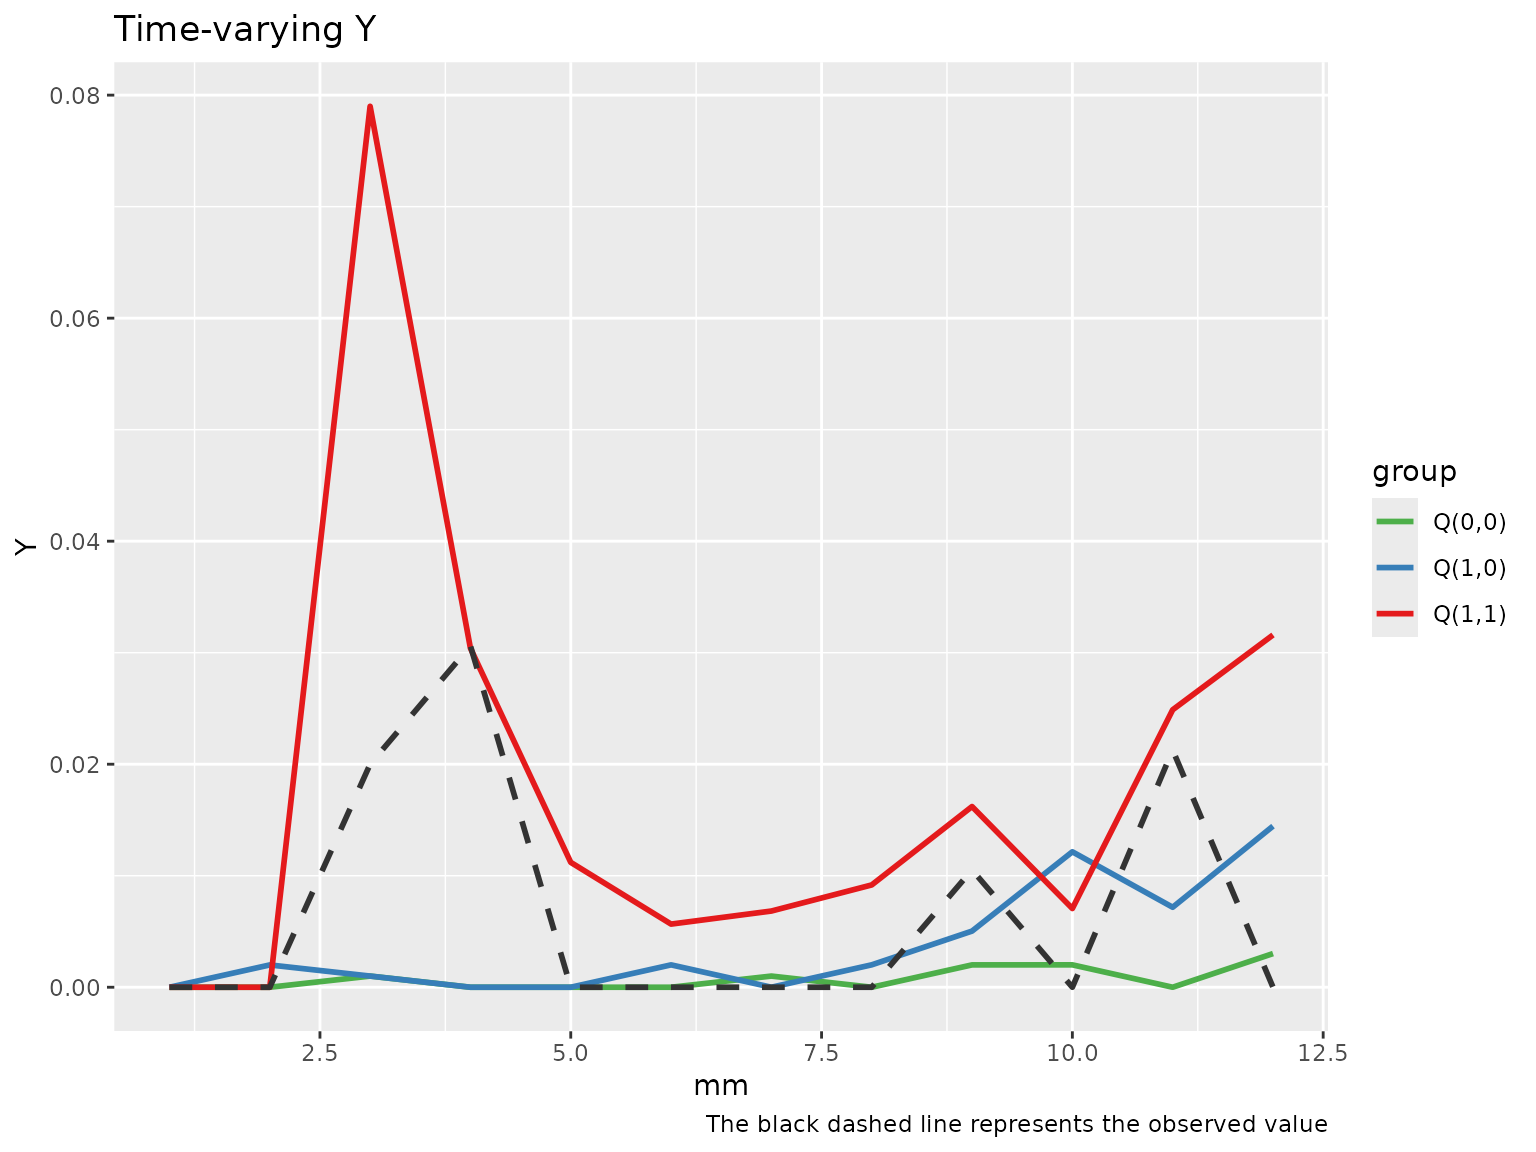
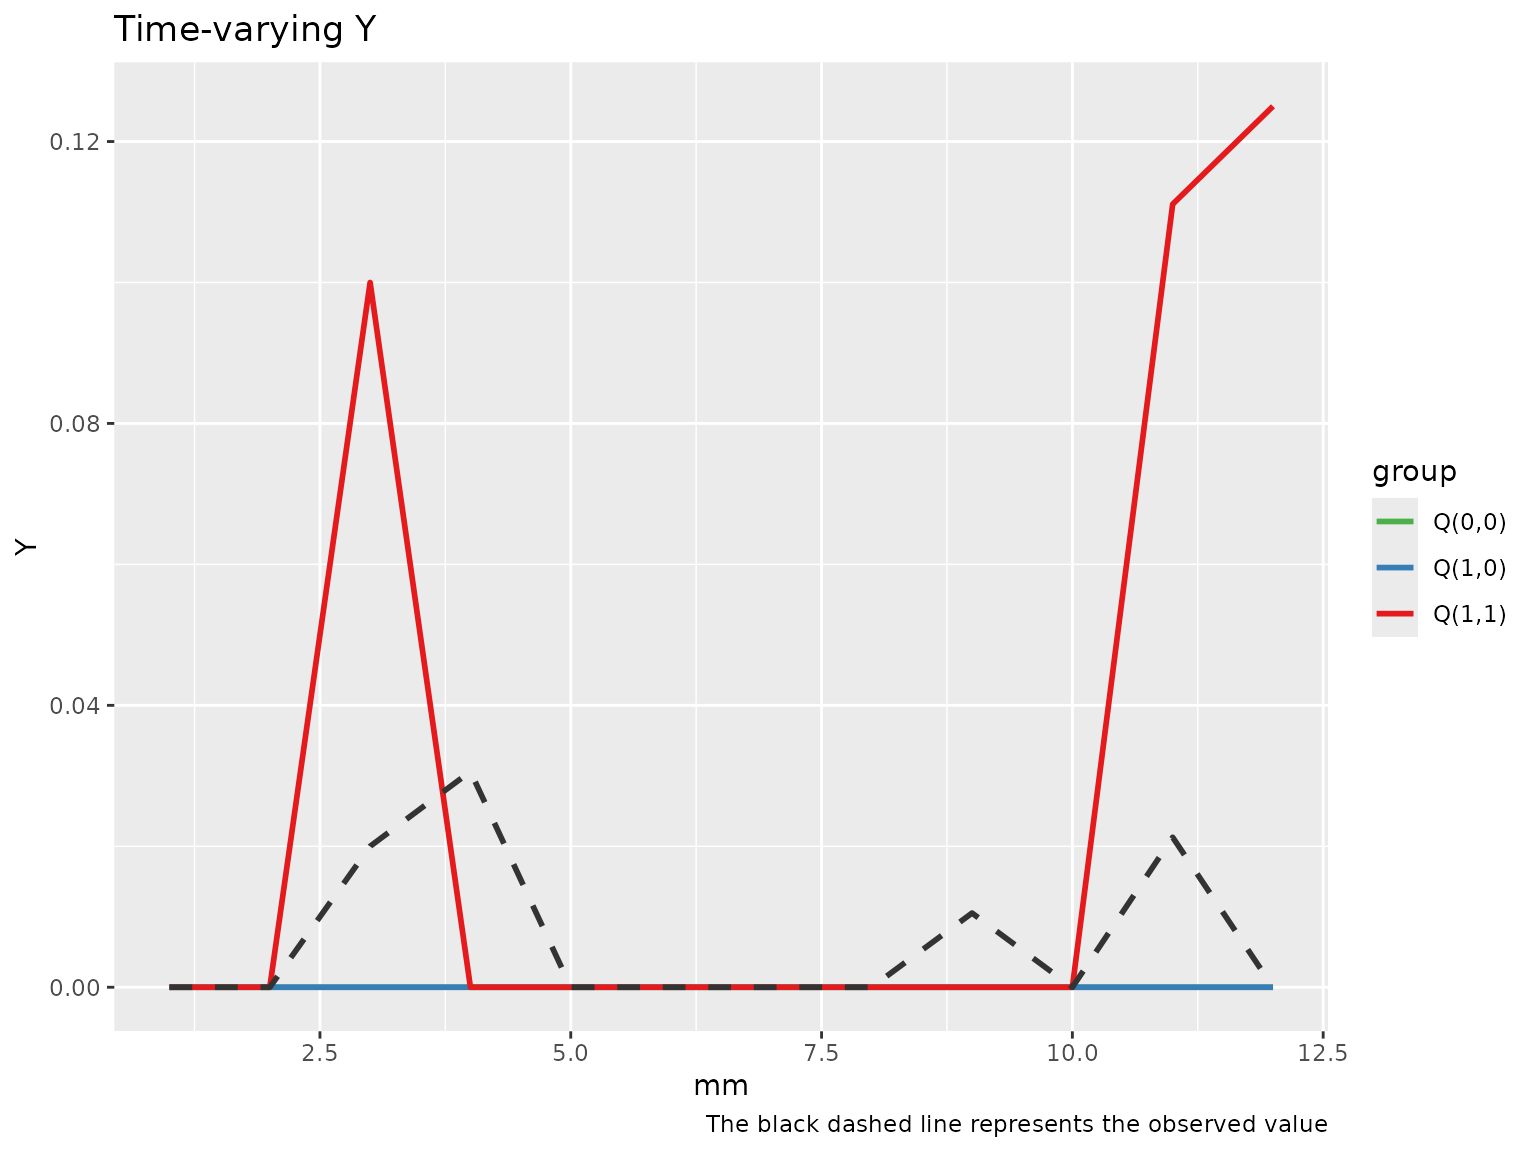
Deploying to gh-pages from @ causalepi/tvmedg@ebe963052ced51c79428124736a715da2fbcf750 🚀

diff --git a/articles/single_mediator.html b/articles/single_mediator.html
@@ -146,6 +146,7 @@ using 1000 Monte Carlo samples.</p>
 <span><span class="va">cl</span> <span class="op">&lt;-</span> <span class="fu"><a href="https://rdrr.io/r/parallel/makeCluster.html" class="external-link">makeCluster</a></span><span class="op">(</span><span class="fl">2</span><span class="op">)</span></span>
 <span><span class="fu"><a href="https://rdrr.io/pkg/doParallel/man/registerDoParallel.html" class="external-link">registerDoParallel</a></span><span class="op">(</span><span class="va">cl</span><span class="op">)</span></span>
 <span><span class="va">med_MtoL</span> <span class="op">&lt;-</span> <span class="fu"><a href="../reference/tvmedg.html">tvmedg</a></span><span class="op">(</span>data <span class="op">=</span> <span class="va">sim_data</span>,</span>
+<span>                   id <span class="op">=</span> <span class="st">"id"</span>,</span>
 <span>                   basec <span class="op">=</span> <span class="fu"><a href="https://rdrr.io/r/base/c.html" class="external-link">c</a></span><span class="op">(</span><span class="st">"age"</span>,<span class="st">"sex"</span>,<span class="st">"ow"</span>,<span class="st">"risk"</span><span class="op">)</span>,</span>
 <span>                   expo <span class="op">=</span> <span class="fu"><a href="https://rdrr.io/r/base/c.html" class="external-link">c</a></span><span class="op">(</span><span class="st">"Ap"</span><span class="op">)</span>,</span>
 <span>                   med <span class="op">=</span> <span class="fu"><a href="https://rdrr.io/r/base/c.html" class="external-link">c</a></span><span class="op">(</span><span class="st">"Mp"</span><span class="op">)</span>,</span>
@@ -163,17 +164,17 @@ using 1000 Monte Carlo samples.</p>
 <span>                   sp_df <span class="op">=</span> <span class="fu"><a href="https://rdrr.io/r/base/c.html" class="external-link">c</a></span><span class="op">(</span><span class="fl">3</span><span class="op">)</span>,</span>
 <span>                   followup <span class="op">=</span> <span class="fl">12</span>,</span>
 <span>                   seed <span class="op">=</span> <span class="fl">123</span>,</span>
-<span>                   montecarlo <span class="op">=</span> <span class="fl">1000</span>,</span>
+<span>                   montecarlo <span class="op">=</span> <span class="fl">10</span>,</span>
 <span>                   boot <span class="op">=</span> <span class="cn">F</span>,</span>
 <span>                   parallel <span class="op">=</span> <span class="cn">TRUE</span><span class="op">)</span></span>
-<span><span class="co">#&gt; Q(a,a): 0.203 </span></span>
-<span><span class="co">#&gt; Q(a,a*): 0.045 </span></span>
-<span><span class="co">#&gt; Q(a*,a*): 0.009 </span></span>
-<span><span class="co">#&gt; Indirect (rIE): 0.158 </span></span>
-<span><span class="co">#&gt; Direct (rDE): 0.036 </span></span>
-<span><span class="co">#&gt; Total (rTE): 0.194 </span></span>
-<span><span class="co">#&gt; Proportional explain: 0.814 </span></span>
-<span><span class="co">#&gt; Total time elapsed: 6.116749 mins</span></span>
+<span><span class="co">#&gt; Q(a,a): 0.3 </span></span>
+<span><span class="co">#&gt; Q(a,a*): 0 </span></span>
+<span><span class="co">#&gt; Q(a*,a*): 0 </span></span>
+<span><span class="co">#&gt; Indirect (rIE): 0.3 </span></span>
+<span><span class="co">#&gt; Direct (rDE): 0 </span></span>
+<span><span class="co">#&gt; Total (rTE): 0.3 </span></span>
+<span><span class="co">#&gt; Proportional explain: 1 </span></span>
+<span><span class="co">#&gt; Total time elapsed: 5.009601 secs</span></span>
 <span><span class="fu"><a href="https://rdrr.io/r/parallel/makeCluster.html" class="external-link">stopCluster</a></span><span class="op">(</span><span class="va">cl</span><span class="op">)</span></span></code></pre></div>
 </div>
 <div class="section level3">
@@ -192,36 +193,37 @@ example, we run only 5 bootstrap iterations.</p>
 <span><span class="fu"><a href="https://rdrr.io/pkg/doParallel/man/registerDoParallel.html" class="external-link">registerDoParallel</a></span><span class="op">(</span><span class="va">cl</span><span class="op">)</span></span>
 <span></span>
 <span><span class="va">med_MtoL_ci</span> <span class="op">&lt;-</span> <span class="fu"><a href="../reference/tvmedg.html">tvmedg</a></span><span class="op">(</span>data <span class="op">=</span> <span class="va">sim_data</span>,</span>
-<span>                   basec <span class="op">=</span> <span class="fu"><a href="https://rdrr.io/r/base/c.html" class="external-link">c</a></span><span class="op">(</span><span class="st">"age"</span>,<span class="st">"sex"</span>,<span class="st">"ow"</span>,<span class="st">"risk"</span><span class="op">)</span>,</span>
-<span>                   expo <span class="op">=</span> <span class="fu"><a href="https://rdrr.io/r/base/c.html" class="external-link">c</a></span><span class="op">(</span><span class="st">"Ap"</span><span class="op">)</span>,</span>
-<span>                   med <span class="op">=</span> <span class="fu"><a href="https://rdrr.io/r/base/c.html" class="external-link">c</a></span><span class="op">(</span><span class="st">"Mp"</span><span class="op">)</span>,</span>
-<span>                   tvar <span class="op">=</span> <span class="fu"><a href="https://rdrr.io/r/base/c.html" class="external-link">c</a></span><span class="op">(</span><span class="st">"L1"</span>,<span class="st">"L2"</span>,<span class="st">"L3"</span><span class="op">)</span>,</span>
-<span>                   outc <span class="op">=</span> <span class="fu"><a href="https://rdrr.io/r/base/c.html" class="external-link">c</a></span><span class="op">(</span><span class="st">"Yp"</span><span class="op">)</span>,</span>
-<span>                   time <span class="op">=</span> <span class="fu"><a href="https://rdrr.io/r/base/c.html" class="external-link">c</a></span><span class="op">(</span><span class="st">"mm"</span><span class="op">)</span>,</span>
-<span>                   lag <span class="op">=</span> <span class="fl">2</span>,</span>
-<span>                   tvar_to_med <span class="op">=</span> <span class="cn">F</span>,</span>
-<span>                   cont_exp <span class="op">=</span> <span class="cn">F</span>,</span>
-<span>                   mreg <span class="op">=</span> <span class="st">"binomial"</span>,</span>
-<span>                   lreg <span class="op">=</span> <span class="fu"><a href="https://rdrr.io/r/base/c.html" class="external-link">c</a></span><span class="op">(</span><span class="st">"binomial"</span>,<span class="st">"gaussian"</span>,<span class="st">"gaussian"</span><span class="op">)</span>,</span>
-<span>                   yreg <span class="op">=</span> <span class="st">"binomial"</span>,</span>
-<span>                   sp_list <span class="op">=</span> <span class="fu"><a href="https://rdrr.io/r/base/c.html" class="external-link">c</a></span><span class="op">(</span><span class="st">"mm"</span><span class="op">)</span>,</span>
-<span>                   sp_type <span class="op">=</span> <span class="fu"><a href="https://rdrr.io/r/base/c.html" class="external-link">c</a></span><span class="op">(</span><span class="st">"bs"</span><span class="op">)</span>,</span>
-<span>                   sp_df <span class="op">=</span> <span class="fu"><a href="https://rdrr.io/r/base/c.html" class="external-link">c</a></span><span class="op">(</span><span class="fl">3</span><span class="op">)</span>,</span>
-<span>                   followup <span class="op">=</span> <span class="fl">12</span>,</span>
-<span>                   seed <span class="op">=</span> <span class="fl">123</span>,</span>
-<span>                   montecarlo <span class="op">=</span> <span class="fl">1000</span>,</span>
-<span>                   boot <span class="op">=</span> <span class="cn">T</span>,</span>
-<span>                   nboot <span class="op">=</span> <span class="fl">5</span>,</span>
-<span>                   ci <span class="op">=</span> <span class="fl">.95</span>,</span>
-<span>                   parallel <span class="op">=</span> <span class="cn">TRUE</span><span class="op">)</span></span>
-<span><span class="co">#&gt; Q(a,a): 0.817 (0, 0.921) </span></span>
-<span><span class="co">#&gt; Q(a,a*): 0.792 (0, 0.906) </span></span>
-<span><span class="co">#&gt; Q(a*,a*): 0 (0, 0.27) </span></span>
-<span><span class="co">#&gt; Indirect (rIE): 0.025 (-0.015, 0.145) </span></span>
-<span><span class="co">#&gt; Direct (rDE): 0.792 (-0.264, 0.906) </span></span>
-<span><span class="co">#&gt; Total (rTE): 0.817 (-0.205, 0.921) </span></span>
-<span><span class="co">#&gt; Proportional explain: 0.031 (-0.286, 0.701) </span></span>
-<span><span class="co">#&gt; Total time elapsed: 30.96388 mins</span></span>
+<span>                      id <span class="op">=</span> <span class="st">"id"</span>,</span>
+<span>                      basec <span class="op">=</span> <span class="fu"><a href="https://rdrr.io/r/base/c.html" class="external-link">c</a></span><span class="op">(</span><span class="st">"age"</span>,<span class="st">"sex"</span>,<span class="st">"ow"</span>,<span class="st">"risk"</span><span class="op">)</span>,</span>
+<span>                      expo <span class="op">=</span> <span class="fu"><a href="https://rdrr.io/r/base/c.html" class="external-link">c</a></span><span class="op">(</span><span class="st">"Ap"</span><span class="op">)</span>,</span>
+<span>                      med <span class="op">=</span> <span class="fu"><a href="https://rdrr.io/r/base/c.html" class="external-link">c</a></span><span class="op">(</span><span class="st">"Mp"</span><span class="op">)</span>,</span>
+<span>                      tvar <span class="op">=</span> <span class="fu"><a href="https://rdrr.io/r/base/c.html" class="external-link">c</a></span><span class="op">(</span><span class="st">"L1"</span>,<span class="st">"L2"</span>,<span class="st">"L3"</span><span class="op">)</span>,</span>
+<span>                      outc <span class="op">=</span> <span class="fu"><a href="https://rdrr.io/r/base/c.html" class="external-link">c</a></span><span class="op">(</span><span class="st">"Yp"</span><span class="op">)</span>,</span>
+<span>                      time <span class="op">=</span> <span class="fu"><a href="https://rdrr.io/r/base/c.html" class="external-link">c</a></span><span class="op">(</span><span class="st">"mm"</span><span class="op">)</span>,</span>
+<span>                      lag <span class="op">=</span> <span class="fl">2</span>,</span>
+<span>                      tvar_to_med <span class="op">=</span> <span class="cn">F</span>,</span>
+<span>                      cont_exp <span class="op">=</span> <span class="cn">F</span>,</span>
+<span>                      mreg <span class="op">=</span> <span class="st">"binomial"</span>,</span>
+<span>                      lreg <span class="op">=</span> <span class="fu"><a href="https://rdrr.io/r/base/c.html" class="external-link">c</a></span><span class="op">(</span><span class="st">"binomial"</span>,<span class="st">"gaussian"</span>,<span class="st">"gaussian"</span><span class="op">)</span>,</span>
+<span>                      yreg <span class="op">=</span> <span class="st">"binomial"</span>,</span>
+<span>                      sp_list <span class="op">=</span> <span class="fu"><a href="https://rdrr.io/r/base/c.html" class="external-link">c</a></span><span class="op">(</span><span class="st">"mm"</span><span class="op">)</span>,</span>
+<span>                      sp_type <span class="op">=</span> <span class="fu"><a href="https://rdrr.io/r/base/c.html" class="external-link">c</a></span><span class="op">(</span><span class="st">"bs"</span><span class="op">)</span>,</span>
+<span>                      sp_df <span class="op">=</span> <span class="fu"><a href="https://rdrr.io/r/base/c.html" class="external-link">c</a></span><span class="op">(</span><span class="fl">3</span><span class="op">)</span>,</span>
+<span>                      followup <span class="op">=</span> <span class="fl">12</span>,</span>
+<span>                      seed <span class="op">=</span> <span class="fl">123</span>,</span>
+<span>                      montecarlo <span class="op">=</span> <span class="fl">10</span>,</span>
+<span>                      boot <span class="op">=</span> <span class="cn">T</span>,</span>
+<span>                      nboot <span class="op">=</span> <span class="fl">5</span>,</span>
+<span>                      ci <span class="op">=</span> <span class="fl">.95</span>,</span>
+<span>                     parallel <span class="op">=</span> <span class="cn">TRUE</span><span class="op">)</span></span>
+<span><span class="co">#&gt; Q(a,a): 0.6 (0.05, 1) </span></span>
+<span><span class="co">#&gt; Q(a,a*): 0.6 (0.01, 1) </span></span>
+<span><span class="co">#&gt; Q(a*,a*): 0 (0, 0.55) </span></span>
+<span><span class="co">#&gt; Indirect (rIE): 0 (0, 0.63) </span></span>
+<span><span class="co">#&gt; Direct (rDE): 0.6 (-0.54, 1) </span></span>
+<span><span class="co">#&gt; Total (rTE): 0.6 (-0.49, 1) </span></span>
+<span><span class="co">#&gt; Proportional explain: 0 (0, 0.9) </span></span>
+<span><span class="co">#&gt; Total time elapsed: 20.36816 secs</span></span>
 <span><span class="fu"><a href="https://rdrr.io/r/parallel/makeCluster.html" class="external-link">stopCluster</a></span><span class="op">(</span><span class="va">cl</span><span class="op">)</span></span></code></pre></div>
 </div>
 <div class="section level3">

diff --git a/reference/process_data.html b/reference/process_data.html
@@ -43,6 +43,7 @@
     <div class="section level2">
     <h2 id="ref-usage">Usage<a class="anchor" aria-label="anchor" href="#ref-usage"></a></h2>
     <div class="sourceCode"><pre class="sourceCode r"><code><span><span class="fu">process_data</span><span class="op">(</span></span>
+<span>  <span class="va">id</span>,</span>
 <span>  <span class="va">basec</span>,</span>
 <span>  <span class="va">expo</span>,</span>
 <span>  <span class="va">med</span>,</span>
@@ -65,7 +66,11 @@
     <h2 id="arguments">Arguments<a class="anchor" aria-label="anchor" href="#arguments"></a></h2>
 
 
-<dl><dt id="arg-basec">basec<a class="anchor" aria-label="anchor" href="#arg-basec"></a></dt>
+<dl><dt id="arg-id">id<a class="anchor" aria-label="anchor" href="#arg-id"></a></dt>
+<dd><p>patient id</p></dd>
+
+
+<dt id="arg-basec">basec<a class="anchor" aria-label="anchor" href="#arg-basec"></a></dt>
 <dd><p>time-fixed variables</p></dd>
 
 

diff --git a/reference/tvmedg.html b/reference/tvmedg.html
@@ -44,6 +44,7 @@
     <h2 id="ref-usage">Usage<a class="anchor" aria-label="anchor" href="#ref-usage"></a></h2>
     <div class="sourceCode"><pre class="sourceCode r"><code><span><span class="fu">tvmedg</span><span class="op">(</span></span>
 <span>  <span class="va">data</span>,</span>
+<span>  <span class="va">id</span>,</span>
 <span>  <span class="va">basec</span>,</span>
 <span>  <span class="va">expo</span>,</span>
 <span>  <span class="va">med</span>,</span>
@@ -77,6 +78,10 @@
 
 <dl><dt id="arg-data">data<a class="anchor" aria-label="anchor" href="#arg-data"></a></dt>
 <dd><p>input data</p></dd>
+
+
+<dt id="arg-id">id<a class="anchor" aria-label="anchor" href="#arg-id"></a></dt>
+<dd><p>patient id</p></dd>
 
 
 <dt id="arg-basec">basec<a class="anchor" aria-label="anchor" href="#arg-basec"></a></dt>
